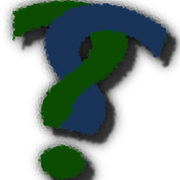
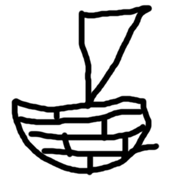
updating

diff --git a/codeprojects/robloxdatachange.html b/codeprojects/robloxdatachange.html
@@ -76,8 +76,10 @@
     
     
     
-    
-   <div class="footer">
-      <p>Irmonus © 2024 Published April 5th 2024- Edited and Maintained Regularly.</p>
-   </div>
+ 
+<div class="footer">
+  <p>Irmonus © <span id="copyright-year">2024</span> || Published April 5th 2024- Edited and Maintained Regularly.</p>
+</div>
+
+<script src="/update-year.js"></script> 
 </html>

diff --git a/codeprojects/javakeyboard.html b/codeprojects/javakeyboard.html
@@ -82,7 +82,10 @@
     
     
     
-   <div class="footer">
-      <p>Irmonus © 2024 Published April 5th 2024- Edited and Maintained Regularly.</p>
-   </div>
+  
+<div class="footer">
+  <p>Irmonus © <span id="copyright-year">2024</span> || Published April 5th 2024- Edited and Maintained Regularly.</p>
+</div>
+
+<script src="/update-year.js"></script> 
 </html>

diff --git a/codeprojects/robloxrocket.html b/codeprojects/robloxrocket.html
@@ -75,8 +75,10 @@
     
     
     
-    
+
    <div class="footer">
-      <p>Irmonus © 2024 Published April 5th 2024- Edited and Maintained Regularly.</p>
-   </div>
-</html>
+    <p>Irmonus © <span id="copyright-year">2024</span> || Published April 5th 2024- Edited and Maintained Regularly.</p>
+ </div>
+
+ <script src="/update-year.js"></script> 
+ </html>

diff --git a/codeprojects/rolimonsapigather.html b/codeprojects/rolimonsapigather.html
@@ -76,8 +76,10 @@
     
     
     
-    
    <div class="footer">
-      <p>Irmonus © 2024 Published April 5th 2024- Edited and Maintained Regularly.</p>
-   </div>
+    <p>Irmonus © <span id="copyright-year">2024</span> || Published April 5th 2024- Edited and Maintained Regularly.</p>
+ </div>
+
+ <script src="/update-year.js"></script> 
+    
 </html>

diff --git a/codeprojects/typingrobloxgood.html b/codeprojects/typingrobloxgood.html
@@ -77,6 +77,9 @@
     
     
    <div class="footer">
-      <p>Irmonus © 2024 Published April 5th 2024- Edited and Maintained Regularly.</p>
+      <p>Irmonus © <span id="copyright-year">2024</span> || Published April 5th 2024- Edited and Maintained Regularly.</p>
    </div>
+
+   <script src="/update-year.js"></script> 
+   
 </html>

diff --git a/index.html b/index.html
@@ -69,12 +69,11 @@
   </div>
 </section>
 
-
-
-
+  <div class="footer">
+    <p>Irmonus © <span id="copyright-year">2024</span></p> 
+  </div>
+  <script src="update-year.js"></script> 
 
 </body>
-   <div class="footer">
-      <p>Irmonus © 2025</p>
-   </div>
+    
 </html>

diff --git a/about.html b/about.html
@@ -44,8 +44,9 @@
     </div>
   </div>
 </div>
-  <div class="footer">
-    <p>Irmonus © 2025</p>
-  </div>
+<div class="footer">
+  <p>Irmonus © <span id="copyright-year">2024</span></p> 
+</div>
+<script src="update-year.js"></script> 
 </body>
 </html>

diff --git a/update-year.js b/update-year.js
@@ -1,0 +1,7 @@
+document.addEventListener('DOMContentLoaded', function() {
+    const yearElement = document.getElementById('copyright-year');
+    
+    if (yearElement) {
+        yearElement.textContent = new Date().getFullYear();
+    }
+});

diff --git a/sections/code.html b/sections/code.html
@@ -141,7 +141,8 @@
 
 
 </body>
-   <div class="footer">
-      <p>Irmonus © 2024</p>
-   </div>
+<div class="footer">
+  <p>Irmonus © <span id="copyright-year">2024</span></p> 
+</div>
+<script src="/update-year.js"></script> 
 </html>

diff --git a/sections/gaming.html b/sections/gaming.html
@@ -52,7 +52,8 @@
 
 
 </body>
-   <div class="footer">
-      <p>Irmonus © 2024</p>
-   </div>
+<div class="footer">
+  <p>Irmonus © <span id="copyright-year">2024</span></p> 
+</div>
+<script src="/update-year.js"></script> 
 </html>

diff --git a/sections/music.html b/sections/music.html
@@ -58,7 +58,8 @@
 
 
 </body>
-   <div class="footer">
-      <p>Irmonus © 2024</p>
-   </div>
+<div class="footer">
+  <p>Irmonus © <span id="copyright-year">2024</span></p> 
+</div>
+<script src="/update-year.js"></script> 
 </html>

diff --git a/blogfolder.html b/blogfolder.html
@@ -57,8 +57,9 @@
 </div>
 
 <div class="footer">
-  <p>Irmonus © 2025</p>
+  <p>Irmonus © <span id="copyright-year">2024</span></p> 
 </div>
+<script src="update-year.js"></script> 
 
 </body>
 </html>
